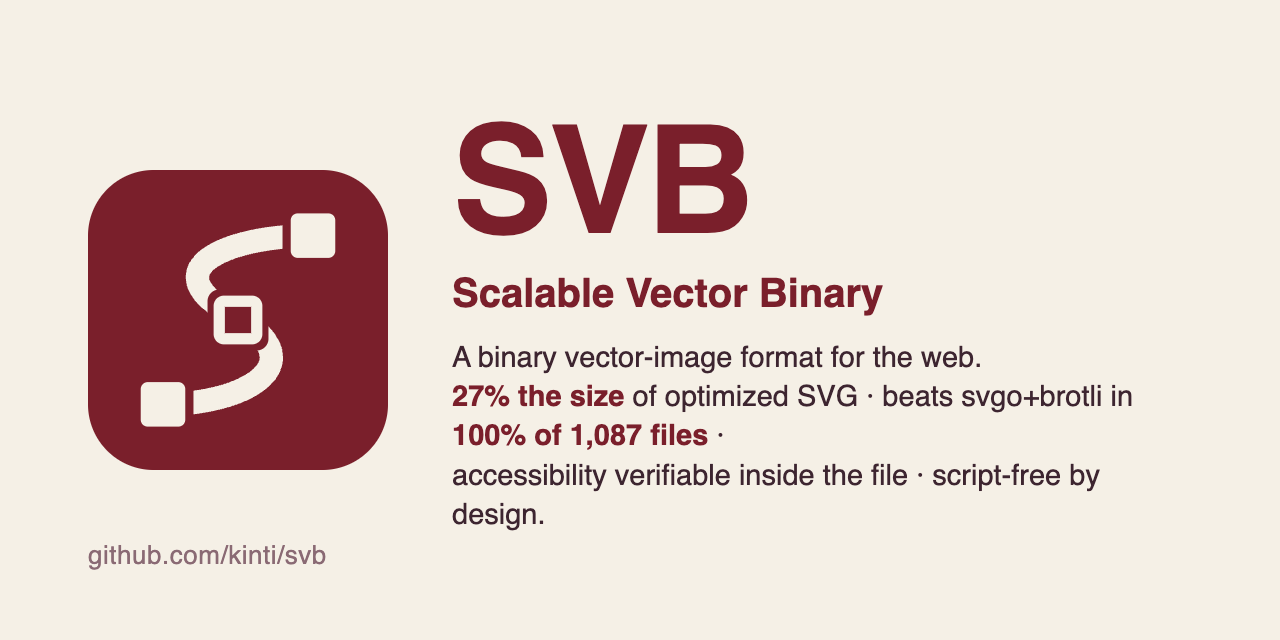
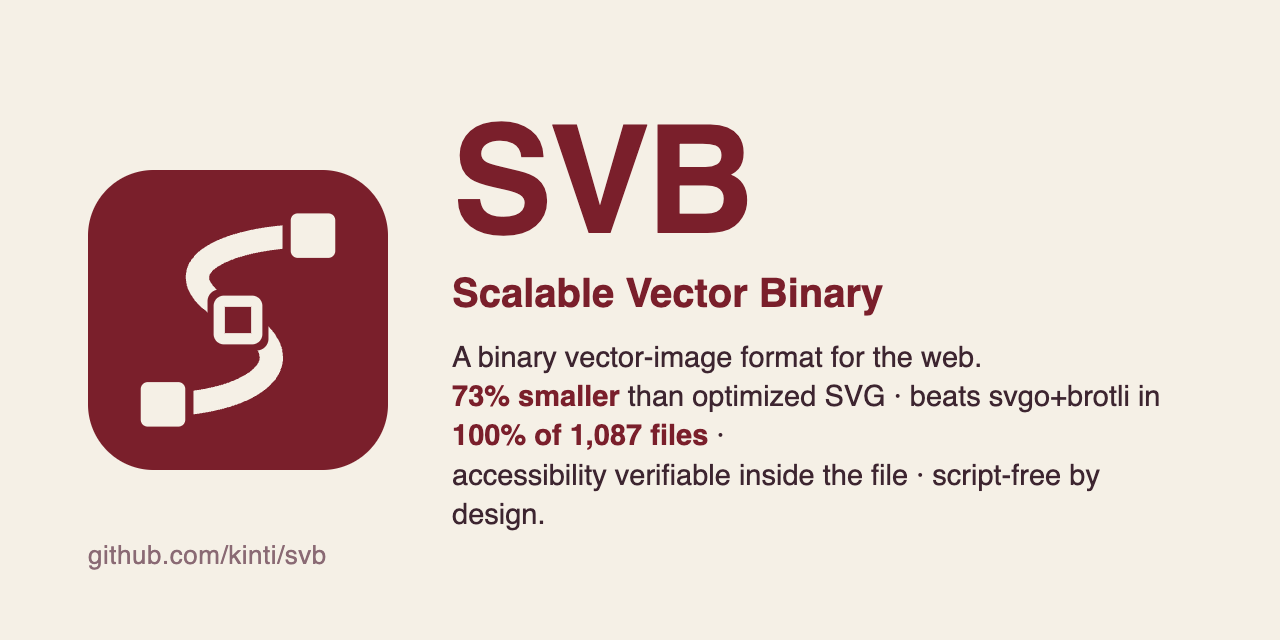
spec: v0.2 grammar documented (DEF/GRAD chunks, instances, run packing, style type 3); repo English-only
SPEC.md updated to match the v0.2 implementation: header/flags version
semantics, chunk table with DEF 0x06 and GRAD 0x07, instance elements,
version-2 command-run packing, style gradient references (type 3),
DEF/GRAD layouts as section 4.1/4.2, history entry. Legacy v1 files
remain valid; v2 features require the version byte set to 2.

SPEC.es.md and README.es.md removed - the repository is English-only;
the Spanish article lives at jquin.net/svb.

Changed region(s): [[0.4062, 0.5938, 0.9062, 0.6562], [0.3438, 0.5938, 0.375, 0.6562]]

diff --git a/docs/social-card.html b/docs/social-card.html
@@ -16,7 +16,7 @@
     <h1>SVB</h1>
     <p class="sub">Scalable Vector Binary</p>
     <p class="tag">A binary vector-image format for the web.<br>
-    <b>27% the size</b> of optimized SVG · beats svgo+brotli in <b>100% of 1,087 files</b> ·<br>
+    <b>73% smaller</b> than optimized SVG · beats svgo+brotli in <b>100% of 1,087 files</b> ·<br>
     accessibility verifiable inside the file · script-free by design.</p>
   </div>
   <p class="url">github.com/kinti/svb</p>

diff --git a/SPEC.md b/SPEC.md
@@ -1,9 +1,7 @@
 # SVB — Scalable Vector Binary
 
-**Specification v0.1 (working draft)** · 2026-08-29
+**Specification v0.2** · 2026-08-31
 *A binary vector-graphics format for the web: binary size, with accessibility and progressive rendering as first-class citizens.*
-
-> Spanish version: [SPEC.es.md](SPEC.es.md). The English version is normative.
 
 ---
 
@@ -14,7 +12,7 @@
 1. **Size**: drastically reduce real-world SVG (icons, illustrations, logos) even *before* transport compression. Coordinate data is the bulk of an optimized SVG; as text it costs 3–8 bytes per number, here 1–2.
 2. **Progressive by design**: a chunk container; a renderer can paint with the first chunks and refine with later ones. A v1 decoder ignores chunks it doesn't know.
 3. **Mandatory, verifiable accessibility**: the accessible name and description live in their own chunk, with a fixed position in the grammar. A validator can require it; an auditor can certify it. In SVG these are optional attributes that almost nobody ships.
-4. **Declarative animation without SMIL** (reserved, v0.2): a dedicated chunk — not text, not JavaScript.
+4. **Declarative animation without SMIL** (reserved): a dedicated chunk — not text, not JavaScript.
 5. **Renderer-agnostic**: the format describes geometry and style; how it is painted (DOM→SVG, canvas, WebGL, native) is outside this specification.
 
 **Non-goals in v0.1**
@@ -40,7 +38,7 @@ The initial bytes of the file, never compressed:
 | Field       | Type    | Value                                                 |
 |-------------|---------|-------------------------------------------------------|
 | magic       | 3 bytes | `53 56 42` (`"SVB"`)                                  |
-| version     | u8      | `1`                                                   |
+| version     | u8      | `1` = v0.1 grammar · `2` = adds DEF/GRAD chunks, instance elements and command-run packing |
 | flags       | u8      | see table                                             |
 | width       | varuint | canvas width in user units (≤ 65535)                  |
 | height      | varuint | canvas height                                         |
@@ -52,9 +50,11 @@ The initial bytes of the file, never compressed:
 |-----|---------------|------------------------------------------------------------------------|
 | 0   | COMPRESSED    | the chunk stream is DEFLATE-compressed (raw, no zlib header)           |
 | 1   | HAS_A11Y      | an A11Y chunk exists                                                   |
-| 2   | HAS_ANIMATION | reserved (v0.2)                                                        |
+| 2   | HAS_ANIMATION | reserved                                                               |
 | 3   | HAS_STYLE     | a STYLE chunk exists                                                   |
-| 4–7 | —             | reserved, 0                                                            |
+| 4   | HAS_DEF       | a DEF (templates) chunk exists                                         |
+| 5   | HAS_GRAD      | a GRAD (gradients) chunk exists                                        |
+| 6–7 | —             | reserved, 0                                                            |
 
 ## 4. Chunk container
 
@@ -71,9 +71,50 @@ chunk  =  tag:u8  size:varuint  body[size]
 | `0x03` | A11Y  | no (flag) | accessible name/description                    |
 | `0x04` | ANIM  | reserved  | declarative animation (v0.2)                   |
 | `0x05` | META  | no        | metadata (generator, license…)                 |
+| `0x06` | DEF   | no (flag) | templates + instances (v0.2 repetition)        |
+| `0x07` | GRAD  | no (flag) | gradient definitions (v0.2)                    |
 | rest   | EXT   | no        | **must be skipped** by reading `size` → forward compat |
 
 Rules: a conforming decoder must be able to skip any unknown chunk without blocking rendering. Progressive rendering (v0.2) will exploit this property by ordering chunks from "renderable base" to "refinement".
+
+### 4.1 DEF chunk (0x06) — templates and instances (v0.2)
+
+Repetition model: a template stores a shape once; instances reference it from the GEOM element stream with a translate-only offset (SVG `<use x y>` semantics) or a full matrix. Effective geometry = instance transform ∘ template element transforms ∘ template points. Templates are **flat** — a template cannot contain instances — so expansion is a bounded loop and reference cycles are impossible by grammar (INV-13). The total emitted element count must respect the expansion budget of §12 (INV-14).
+
+```
+tmpl_count: varuint
+template ×tmpl_count:
+  tmpl_id: varuint          (unique — normative: duplicates rejected)
+  elem_count: varuint
+  element ×elem_count       (identical encoding to GEOM elements;
+                             instances forbidden inside templates — normative)
+instance (inside GEOM): elem_byte shape type 8, then:
+  inst_byte: u8             bit0: 0 translate-only · 1 full matrix; bits 1–7 reserved, 0
+  tmpl_id: varuint
+  translate-only → tx, ty: varint fixed (absolute)
+  full matrix    → 6 × varint fixed (instance transform, pre-multiplied)
+```
+
+Instances use the template's internal styles; they carry no style reference of their own. Expanded element count must respect the §12 budget.
+
+### 4.2 GRAD chunk (0x07) — gradients (v0.2)
+
+Linear and radial gradients; stops carry RGB plus optional per-gradient alpha. Style entries reference gradients by index (STYLE type 3).
+
+```
+grad_count: varuint
+gradient ×grad_count:
+  type: u8      0 linear · 1 radial                            (normative: else reject)
+  units: u8     0 objectBoundingBox · 1 userSpaceOnUse         (normative: else reject)
+  spread: u8    0 pad                                          (normative: else reject)
+  flags: u8     bit0 gradientTransform present · bit1 stops carry alpha
+  [ gradientTransform: 6 × varint ]                            if bit0
+  coords:  linear → 4 × u8 (objectBoundingBox)   |  radial → 3 × u8
+           linear → 4 × varint fixed (userSpace) |  radial → 3 × varint fixed
+  stop_count: varuint                                           (normative: ≥ 1, else reject)
+  stop ×stop_count:
+    offset: u8 (0–255 → 0–1) · color: R,G,B · [alpha: u8 if stops-carry-alpha]
+```
 
 ## 5. STYLE chunk (0x01)
 
@@ -83,16 +124,19 @@ An indexed style table; elements reference an entry by index. Interning repeated
 count: varuint
 entry ×count:
   style_byte: u8
-      bit 0–1  fill:    0 none · 1 color · 2 color+alpha
-      bit 2–3  stroke:  0 none · 1 color · 2 color+alpha
+      bit 0–1  fill:    0 none · 1 color · 2 color+alpha · 3 gradient ref (v0.2)
+      bit 2–3  stroke:  0 none · 1 color · 2 color+alpha · 3 gradient ref (v0.2)
       bit 4    has stroke-width
       bit 5    has caps/join byte
       bit 6    has dash array
       bit 7    evenodd fill-rule (0 = nonzero)
-  [ fill:  R,G,B (u8×3) ]              if fill ≠ 0
+  [ fill:  R,G,B (u8×3) ]              if fill = 1 or 2
   [ fill alpha: u8 ]                   if fill = 2
-  [ stroke: R,G,B ]                    if stroke ≠ 0
+  [ fill grad-ref: varuint ]           if fill = 3 (bit0: gradient-matrix follows;
+                                                  bits ≥1: gradient index)
+  [ stroke: R,G,B (u8×3) ]             if stroke = 1 or 2
   [ stroke alpha: u8 ]                 if stroke = 2
+  [ stroke grad-ref: varuint ]         if stroke = 3 (same encoding)
   [ stroke-width: varuint fixed ]      if bit 4
   [ caps/join: u8 ]                    if bit 5   (low nibble: cap 0 butt · 1 round · 2 square;
                                                     high nibble: join 0 miter · 1 round · 2 bevel)
@@ -107,7 +151,8 @@ Elements in **document order** (paint order and reading order).
 count: varuint
 element ×count:
   elem_byte: u8
-      bit 0–3  shape: 1 rect · 2 circle · 3 ellipse · 4 line · 5 polyline · 6 polygon · 7 path
+      bit 0–3  shape: 1 rect · 2 circle · 3 ellipse · 4 line · 5 polyline · 6 polygon · 7 path · 8 instance (v0.2)
+                      · 8 instance (v0.2)
       bit 4    has transform: 6 × varint fixed matrix (SVG matrix(a,b,c,d,e,f) order)
       bit 5    inline style (same encoding as a STYLE entry, in place)
       bit 6–7  reserved, 0
@@ -120,7 +165,7 @@ element ×count:
     line      x1, y1, x2, y2 (varint ×4)
     polyline  count:varuint, x0:varint, y0:varint, then (count−1) varint delta pairs
     polygon   identical to polyline
-    path      cmd_count: varuint, followed by commands:
+    path (version 1)      cmd_count: varuint, followed by commands:
                 cmd_byte: bits 0–2 → 0 M · 1 L · 2 C · 3 Q · 4 A · 5 Z ; bits 3–7 reserved, 0
                   M · L → 1 point
                   C     → 3 points
@@ -128,11 +173,19 @@ element ×count:
                   A     → rx:varuint, ry:varuint, rot:varint (degrees, integer),
                            flags:u8 (bit0 large-arc, bit1 sweep), end point
                   Z     → nothing
+    path (version 2)      run_count: varuint, then per run:
+                run: varuint = (count << 3) | cmd     with cmd ∈ {M,L,C,Q,A,Z}, count ≥ 1
+                followed by count × command data (same layout as above)
+    instance (v0.2)       inst_byte:u8 (bit0: 0 translate-only · 1 full matrix),
+                          tmpl_id:varuint,
+                          then tx,ty:varint fixed (translate-only) or 6 × varint fixed matrix
 ```
 
 **Point encoding in `path`**: the first `M` of each path is absolute (two signed varints — negative coordinates are legal). Every subsequent point is stored as a **zigzag delta from the pen** (the current position after the previous point), regardless of the command. This delta encoding is the main source of savings: for contiguous coordinates, deltas fit in 1 byte where SVG spends 6–10 characters.
 
 **Normalization in the encoder**: `S→C`, `T→Q`, `H/V→L`, relative→absolute before quantization. The decoder only implements the 6 canonical commands.
+
+**Instance elements (v0.2)**: an instance references a DEF template and carries a translate-only offset (SVG `<use x y>` semantics) or a full matrix. Effective geometry = instance transform ∘ template element transforms ∘ template points. Instances use the template's internal styles and carry no style reference of their own. DEF templates are flat — a template cannot contain instances — so template expansion is a bounded loop and cycles are impossible by grammar (INV-13); the total emitted element count must respect the expansion budget of §12 (INV-14).
 
 **viewBox and inheritance**: the encoder "bakes" the root `viewBox` (translation+scale) and the nested transforms of `g` elements into each element's matrix. An element with no effective transform carries no bit 4.
 
@@ -169,7 +222,7 @@ Planned design (non-normative in v0.1): keyframe track(s) per element or propert
 
 ## 11. Conformance
 
-A conforming **encoder** emits a valid header, at least one GEOM chunk, chunks in ascending tag order, and no bytes outside chunks. A conforming **decoder** accepts any v1 file, ignores unknown chunks, and renders the GEOM+STYLE subset; A11Y support is mandatory for the "accessible SVB" seal.
+A conforming **encoder** emits a valid header, at least one GEOM chunk, chunks in ascending tag order, and no bytes outside chunks. A conforming **decoder** accepts any v1 or v2 file, ignores unknown chunks, and renders the GEOM+STYLE subset; A11Y support is mandatory for the "accessible SVB" seal. Version-2 constructs (DEF/GRAD/instances/runs) require the version byte to be 2; a decoder that cannot render them MUST reject such files cleanly at the header instead of misparsing. Version-2 files may additionally use the DEF, GRAD and instance constructs; a decoder that cannot render them MUST reject version-2 files cleanly at the header instead of misparsing (version discipline).
 
 ## 12. Security
 
@@ -183,6 +236,10 @@ Hardening rules, **normative for implementations**:
 - Rationale: without these rules, a ~20-byte file declaring 134 million path commands exhausts gigabytes of heap; with them, it is rejected in microseconds.
 
 ## 13. History
+
+- **v0.2 (2026-08-31)** — repetition and gradients release (version byte `2`; v1 files remain valid): DEF chunk (flat templates, translate-only or full-matrix instances), GRAD chunk (linear/radial, OBB-u8 or userSpace coordinates, per-gradient alpha, optional gradientTransform), style fill/stroke type 3 = gradient reference, command-run packing (`(count << 3) | cmd`), flags HAS_DEF/HAS_GRAD, invariants INV-13 (reference integrity, flat templates) and INV-14 (expansion budget ≤ 1M emitted elements).
+
+- **v0.2 (2026-08-31)** — repetition and gradients release (version byte `2`; v1 files remain valid): DEF chunk (flat templates, translate-only or full-matrix instances), GRAD chunk (linear/radial, OBB-u8 or userSpace coordinates, per-gradient alpha, optional gradientTransform), style fill/stroke type 3 = gradient reference, command-run packing (`(count << 3) | cmd`), flags HAS_DEF/HAS_GRAD, invariants INV-13 (reference integrity, flat templates) and INV-14 (expansion budget).
 
 - **v0.2 (2026-08-30)** — repetition + gradients + command runs (version byte `2`; v1 files remain valid): chunk DEF (templates + instance elements, translate-only or full-matrix — SVG `<use>` semantics), chunk GRAD (linear/radial, OBB-u8 or userSpace coordinates, optional gradientTransform matrix), style fill/stroke type 3 = gradient reference, MVT-style command-run packing (`(count << 3) | cmd`), new flags HAS_DEF/HAS_GRAD, invariants INV-13 (reference integrity, flat templates) and INV-14 (expansion budget ≤ 1M elements — the template-bomb guard), strict gradient vocabulary. Design model and measured budget: DESIGN.md.
 - **v0.1.1 (2026-08-30)** — security hardening release: EOF guards on all readers, declared-count bounds, decompression output cap, encoder input cap, quadratic attr parsing fixed; §12 added (normative). Format unchanged: files produced by v0.1 encoders remain valid, version byte stays `1`.

diff --git a/README.md b/README.md
@@ -15,7 +15,7 @@
 
 **▶ Live demo**: <https://kinti.github.io/svb/demo/> — `<img src="*.svb">` rendering in current browsers via a Service Worker.
 
-> También disponible en [español](README.es.md) · Project article: <https://jquin.net/svb/>
+> Spanish project article: <https://jquin.net/svb/>
 
 ## Overview
 
@@ -50,6 +50,8 @@ SVB addresses each point at the format level:
 | Raw SVB smaller than svgo+brotli | **100% of files** |
 | Median svb+brotli / svgo+brotli | ×0.542 |
 | Median size | 467 B → **139 B** |
+| Mean savings per file | **72.7%** (570 B saved) |
+| Aggregate bytes saved across the corpus | **73.8%** |
 
 **Large production-like files** (140–580 KB: repetitive maps, schematics, organic curves — the class where naive binary formats typically lose to brotli). v0.2's repetition model (templates + delta-chained instances) and command packing close the gap:
 
